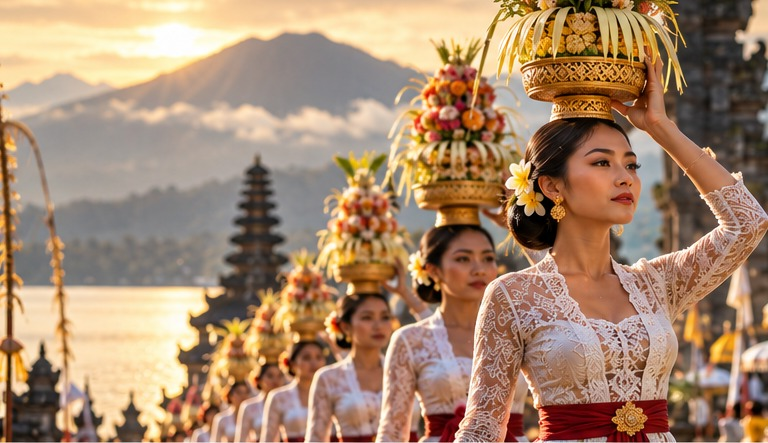
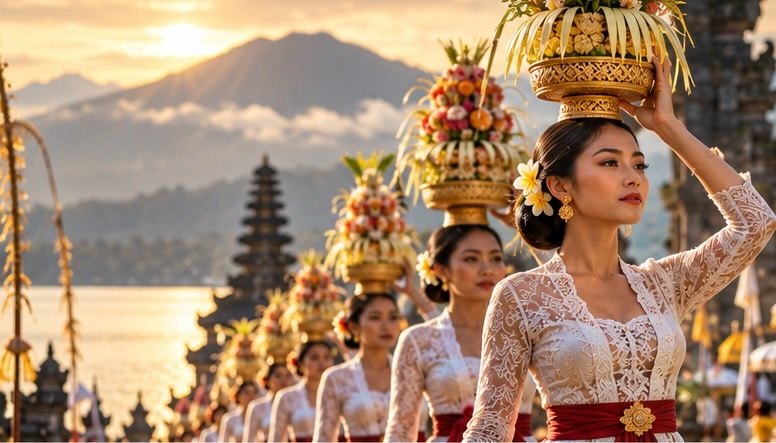
Add files via upload

diff --git a/index.html b/index.html
@@ -259,7 +259,7 @@ footer{background:#262923;color:#fff}footer p{color:#ded9cf}.btn{background:#a65
 <article><div aria-label="Scenic helicopter flight over tropical coastline" class="luxury-art helicopter-art"><img src="assets/experience-helicopter-luxury.jpg" alt="Private helicopter flight above Nusa Penida coastline"></div><div class="luxury-copy"><h3>Helicopter Flights</h3><p>See Bali from a different perspective with a scenic flight, subject to weather and operator availability.</p><a href="https://wa.me/62881037307377?text=Hello%20TBB%2C%20please%20help%20me%20enquire%20about%20a%20helicopter%20flight%20in%20Bali.">ENQUIRE ABOUT FLIGHTS   →</a></div></article>
 <article><div aria-label="Jet ski adventure along the Nusa Penida coastline" class="luxury-art watersport-art"><img src="assets/experience-jetski-nusa-penida.jpg" alt="Jet ski adventure on turquoise water near Nusa Penida"></div><div class="luxury-copy"><h3>Jet Ski to Nusa Penida</h3><p>Enjoy a premium jet ski adventure along the spectacular turquoise coastline and dramatic limestone formations around Nusa Penida, subject to local conditions and operator availability.</p><a href="https://wa.me/62881037307377?text=Hello%20TBB%2C%20please%20help%20me%20enquire%20about%20water%20sports%20in%20Bali.">ENQUIRE ABOUT WATER SPORTS   →</a></div></article>
 </div></section>
-<section id="fleet"><span id="transport"></span><div class="section-head"><div class="eyebrow">Private transport</div><h2>Choose your way to travel.</h2><p>Comfortable private journeys around Bali, with personal service and clear quotations.</p></div><div class="grid vehicle-grid"><article class="card vehicle-card"><div aria-label="Black 2010 Suzuki APV with silver multi-spoke rims" class="vehicle-art apv-art" role="img"><span>STANDARD VEHICLE</span><strong>SUZUKI APV 2010</strong><small>Luxury black · lowered stance · silver multi-spoke rims</small></div><h3>Suzuki APV 2010</h3><p>Travel around Bali in comfort with Tour Bali Buddy’s private Suzuki APV 2010. Finished in glossy black with a lowered stance and silver Vossen-style multi-spoke rims, it is ideal for airport transfers, hotel pickups, sightseeing and day trips. Our local team can coordinate your route, pickup time and itinerary. Contact Tour Bali Buddy on WhatsApp for a personalised quote and to confirm availability before booking. Let Tour Bali Buddy make your Bali journey smooth and easy to arrange.</p><p><b>Service:</b> Private transport<br/><b>Departure point:</b> Sesetan, Denpasar</p><a class="btn" href="https://wa.me/62881037307377?text=Hello%20TBB%2C%20I%20would%20like%20to%20book%20the%20Suzuki%20APV.">BOOK STANDARD RIDE</a></article><article class="card vehicle-card"><div aria-label="Latest-model Toyota Alphard" class="vehicle-art alphard-art" role="img"><span>PREMIUM OPTION</span><strong>TOYOTA ALPHARD</strong><small>Latest model · available by request only</small></div><h3>Toyota Alphard</h3><p>Travel Bali in refined comfort with the Toyota Alphard, ideal for airport transfers, private sightseeing and relaxed journeys between destinations. Tour Bali Buddy can also help arrange selected sports cars and motorcycles, including Harley-Davidson models, for guests seeking a more distinctive drive. Vehicle models, rental terms, deposits, insurance requirements and availability vary by provider and date. Contact Tour Bali Buddy with your preferred vehicle, travel dates and itinerary for current options and a personalised quotation before confirming.</p><p><b>Service:</b> Premium private transport<br/><b>Availability:</b> By request only</p><a class="btn-outline" href="https://wa.me/62881037307377?text=Hello%20TBB%2C%20please%20quote%20the%20Toyota%20Alphard.%">REQUEST ALPHARD</a></article></div></section>
+<section id="fleet"><span id="transport"></span><div class="section-head"><div class="eyebrow">Private transport</div><h2>Choose your way to travel.</h2><p>Comfortable private journeys around Bali, with personal service and clear quotations.</p></div><div class="grid vehicle-grid"><article class="card vehicle-card"><div aria-label="Black Suzuki APV private transport vehicle" class="vehicle-art apv-art" role="img"><span>STANDARD VEHICLE</span><strong>SUZUKI APV</strong><small>Comfortable private transport · flexible Bali journeys</small></div><h3>Suzuki APV</h3><p>Make getting around Bali simple and comfortable with a private Suzuki APV arranged by Tour Bali Buddy. It is a practical choice for airport pickups, hotel transfers, family travel, shopping stops and full-day sightseeing. Enjoy a dedicated vehicle for your group, convenient pickup arrangements and the flexibility to explore at your own pace. Tell us your dates, passenger numbers and planned destinations, and Tour Bali Buddy will help arrange a suitable journey and provide a clear quotation. All bookings are subject to confirmation and vehicle availability.</p><p><b>Service:</b> Private transport<br/><b>Availability:</b> By request only</p><a class="btn" href="https://wa.me/62881037307377?text=Hello%20TBB%2C%20I%20would%20like%20to%20book%20the%20Suzuki%20APV.">BOOK STANDARD RIDE</a></article><article class="card vehicle-card"><div aria-label="Latest-model Toyota Alphard" class="vehicle-art alphard-art" role="img"><span>PREMIUM OPTION</span><strong>TOYOTA ALPHARD</strong><small>Latest model · available by request only</small></div><h3>Toyota Alphard</h3><p>Travel Bali in refined comfort with the Toyota Alphard, ideal for airport transfers, private sightseeing and relaxed journeys between destinations. Tour Bali Buddy can also help arrange selected sports cars and motorcycles, including Harley-Davidson models, for guests seeking a more distinctive drive. Vehicle models, rental terms, deposits, insurance requirements and availability vary by provider and date. Contact Tour Bali Buddy with your preferred vehicle, travel dates and itinerary for current options and a personalised quotation before confirming.</p><p><b>Service:</b> Premium private transport<br/><b>Availability:</b> By request only</p><a class="btn-outline" href="https://wa.me/62881037307377?text=Hello%20TBB%2C%20please%20quote%20the%20Toyota%20Alphard.%">REQUEST ALPHARD</a></article></div></section>
 <section class="dark" id="prices"><div class="section-head"><div class="eyebrow">Planning reference</div><h2>Transport price guide</h2><p>Updated 2026 reference fares per private car for 1–6 people. Distances and journey times are estimates; actual travel time depends on traffic and road conditions. Prices may vary depending on your pickup location, destination and itinerary. Please confirm the final quotation with us before booking.</p></div><div class="price-wrap"><table><thead><tr><th>Destination</th><th>Approx. distance</th><th>Estimated journey</th><th>Reference fare</th></tr></thead><tbody id="priceRows"></tbody></table></div><div class="band"><div><b>Need a custom route?</b><br/><small>Prices may vary depending on your pickup location, premises, destination and itinerary. Contact us for your confirmed price.</small></div><a class="btn" href="https://wa.me/62881037307377?text=Please%20quote%20my%20route%20from%20Sesetan.">GET A QUOTE</a></div></section>
 <section id="contact" style="background:#eee8de"><span id="about"></span><div class="transport"><div><div class="eyebrow">Local service, personal care</div><h2>Your Bali journey, made simple.</h2><p>Clear communication, private travel and flexible planning. Tell us where you want to go and we will help arrange the ride.</p><a class="btn" href="https://wa.me/62881037307377">CHAT WITH OUR TEAM</a></div><div class="card"><h3>TBB</h3><p>Private journeys and curated experiences across Bali.</p><p><b>WhatsApp</b><br/>+62 881 0373 07377</p><p><b>Instagram</b><br/>@tourbalibuddy</p><p><b>Starting point</b><br/>Sesetan, Denpasar, Bali</p></div></div></section>
 </main><footer><div><b>TOUR BALI BUDDY</b><p>Discover Bali. Travel beautifully.</p></div><div><b>BOOKINGS</b><p>WhatsApp +62 881 0373 07377<br/>Instagram @tourbalibuddy</p></div><small>© <span id="year"></span> Tour Bali Buddy</small></footer></div>
